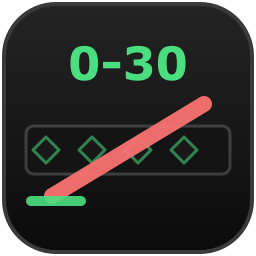
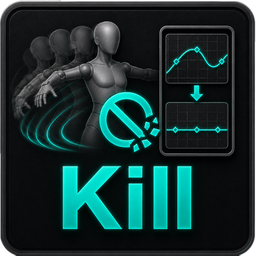
feat(daz): real Content Library artwork for Kill_Animation
Replaces the generated placeholder with Remo's icon, rendered to the two sizes
Daz resolves by name: 91x91 for the tile, 256x256 for the hover preview. Scaled
with `cover` rather than `fill` -- the source is 1254x1250, four pixels off
square, and the sub-pixel crop lands in the black border instead of squashing
the artwork.

No RUNTIME_VERSION bump: v61 is unreleased (it arrives with this PR), so the
icons ride the bump that already installs the script. The runtime hash guard
covers artwork bytes, so it moves with them.

Claude-Session: https://claude.ai/code/session_01Fhwa5xWus8FxN9k5Z4c4Ee

diff --git a/apps/web/src/lib/rom/storage/runtime-install.ts b/apps/web/src/lib/rom/storage/runtime-install.ts
@@ -140,9 +140,6 @@ const VISIBLE_SCRIPT_ICONS: Record<string, string> = {
   'Scan_Frames.tip.png': scanFramesTip,
   'Fix_Graft_Shell_Surfaces.png': fixGraftShellSurfacesIcon,
   'Fix_Graft_Shell_Surfaces.tip.png': fixGraftShellSurfacesTip,
-  // PLACEHOLDER artwork (generated, not drawn) — a plain tile in the family's
-  // palette so the Content Library shows an icon rather than a broken image.
-  // Swap in real illustration when there is some; nothing else has to change.
   'Kill_Animation.png': killAnimationIcon,
   'Kill_Animation.tip.png': killAnimationTip,
 }

diff --git a/apps/web/src/lib/rom/runtime.test.ts b/apps/web/src/lib/rom/runtime.test.ts
@@ -54,7 +54,7 @@ const RUNTIME_ASSETS = [
 
 // Bump this together with RUNTIME_VERSION whenever a runtime file legitimately
 // changes (this run prints the new value in the failure message).
[2 lines of base64/hex data omitted]
 
 function runtimeHash(): string {
   const dir = join(dirname(fileURLToPath(import.meta.url)), 'runtime')
